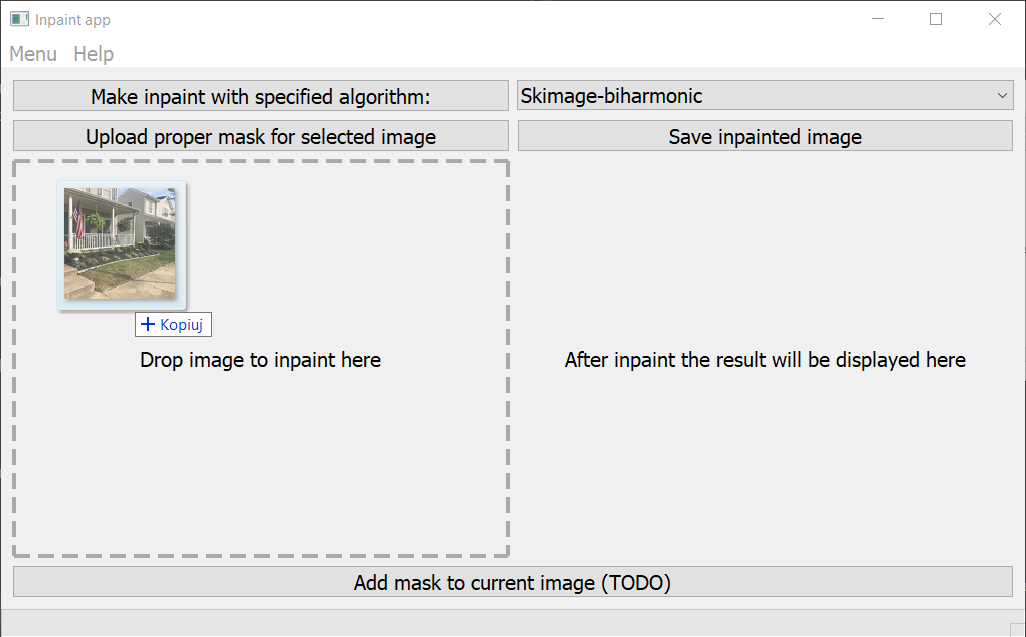
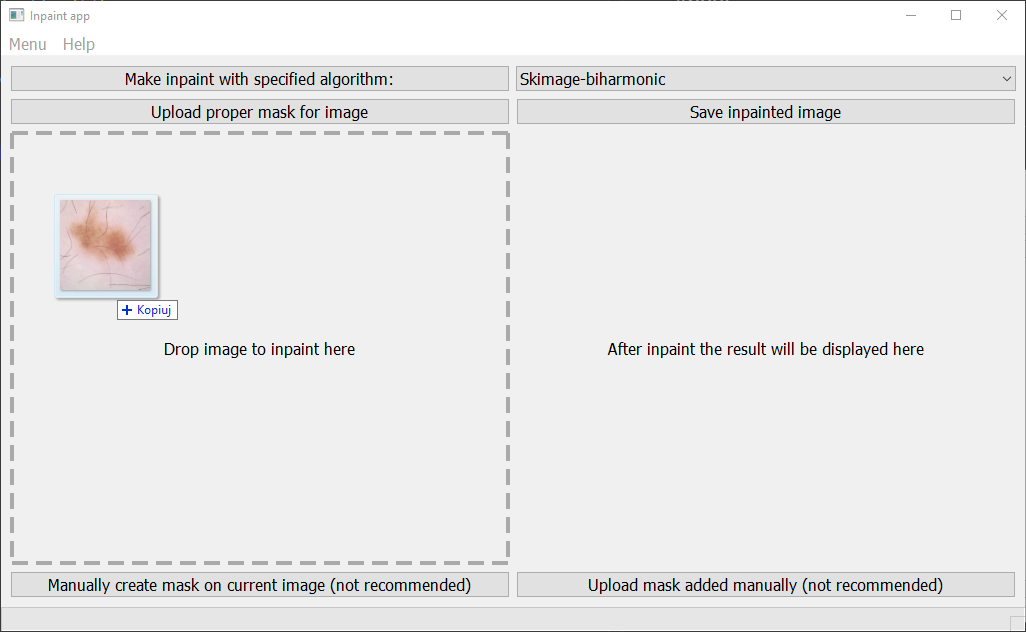
first public version of app

diff --git a/app/ui.py b/app/ui.py
@@ -18,9 +18,9 @@ from threading import Thread
 
 COMBO_MAP = {
     'Skimage-biharmonic': 5,
+    'OpenCV-Shiftmap': 4,
     'OpenCV-NS': 0,
     'OpenCV-TELEA': 1,
-    'OpenCV-Shiftmap': 4,
     'OpenCV-FSR fast': 2,
     'OpenCV-FSR best': 3,
 }
@@ -63,8 +63,11 @@ class Canvas(QLabel):
         painter.drawLine(self.last_x, self.last_y, e.x(), e.y())
         painter.end()
         self.update()
-        self.mask_array[self.last_y, self.last_x] = 255
-        self.mask_array[e.y(), e.x()] = 255
+        try:
+            self.mask_array[self.last_y, self.last_x] = 255
+            self.mask_array[e.y(), e.x()] = 255
+        except IndexError:
+            pass
 
         # Update the origin for next time.
         self.last_x = e.x()
@@ -94,7 +97,7 @@ class MainWindow(QMainWindow):
         self.image_after.setAlignment(Qt.AlignCenter)
         self.btn_inpaint = QPushButton("Make inpaint with specified algorithm:")
         self.btn_inpaint.clicked.connect(self.inpaint_click)
-        self.btn_mask = QPushButton("Upload proper mask for selected image")
+        self.btn_mask = QPushButton("Upload proper mask for image")
         self.btn_mask.clicked.connect(self.mask_click)
         self.btn_save = QPushButton("Save inpainted image")
         self.btn_save.clicked.connect(self.save_click)
@@ -162,6 +165,10 @@ class MainWindow(QMainWindow):
                 return
             self.path_original = file_path
             self.set_image(file_path)
+            if self.canvas:
+                self.canvas.close()
+                self.canvas = None
+                self.img_mask = None
             event.accept()
         else:
             event.ignore()
@@ -197,29 +204,27 @@ class MainWindow(QMainWindow):
     def inpaint_operation(self):
         inpaint_flag = COMBO_MAP[self.combobox_inpaint.currentText()]
         try:
-            self.img_inpainted, error = inpaint_algorithms(
+            self.img_inpainted = inpaint_algorithms(
                 img_path=self.path_original,
                 mask_path=self.path_mask if self.path_mask else None,
                 img_mask=self.img_mask,
                 flag=inpaint_flag,
             )
-            self.movie_stop()
-            if error:
-                self.display_status_bar_message(f"Unhandled error while inpainting: {error}")
-                self.image_after.hide()
-            else:
-                image_after = QImage(
-                    self.img_inpainted,
-                    self.img_inpainted.shape[1],
-                    self.img_inpainted.shape[0],
-                    self.img_inpainted.shape[1] * 3,
-                    QImage.Format_RGB888
-                )
-                pixmap_img_after = QPixmap(image_after)
-                pixmap_img_after = pixmap_img_after.scaled(512, 512, Qt.KeepAspectRatio, Qt.FastTransformation)
-                self.image_after.setPixmap(pixmap_img_after)
         except Exception as e:
+            self.image_after.hide()
             self.display_status_bar_message(f"Error while inpainting: {e}")
+        finally:
+            self.movie_stop()
+            image_after = QImage(
+                self.img_inpainted,
+                self.img_inpainted.shape[1],
+                self.img_inpainted.shape[0],
+                self.img_inpainted.shape[1] * 3,
+                QImage.Format_RGB888
+            )
+            pixmap_img_after = QPixmap(image_after)
+            pixmap_img_after = pixmap_img_after.scaled(512, 512, Qt.KeepAspectRatio, Qt.FastTransformation)
+            self.image_after.setPixmap(pixmap_img_after)
 
     def mask_click(self):
         mask_path, _ = QFileDialog.getOpenFileName(self, "Select mask for image", self.path_original, "All Files (*)")
@@ -228,6 +233,7 @@ class MainWindow(QMainWindow):
                 self.display_status_bar_message("File must have graphic extension like .png")
                 return
             self.path_mask = mask_path
+            self.btn_mask.setText("Replace loaded mask")
 
     def save_click(self):
         if self.img_inpainted is None:
@@ -247,14 +253,15 @@ class MainWindow(QMainWindow):
                 self.display_status_bar_message(f"Error while saving: {e}")
 
     def add_mask_click(self):
-        if self.canvas is None and not self.path_original:
+        if not self.path_original:
             self.display_status_bar_message("First you need to add image to inpaint")
             return
-        elif self.canvas is None:
-            self.canvas = Canvas(self.drag_image.width(), self.drag_image.height())
-            self.layout.addWidget(self.canvas, 2, 0)
-        else:
-            self.display_status_bar_message("Already added canvas try holding LPM on image to inpaint")
+        elif self.canvas:
+            self.canvas.close()
+            self.canvas = None
+        self.canvas = Canvas(self.drag_image.width(), self.drag_image.height())
+        self.layout.addWidget(self.canvas, 2, 0, alignment=Qt.AlignCenter)
+        self.combobox_inpaint.setCurrentIndex(1)
 
     def upload_mask_click(self):
         if self.canvas is None:
@@ -263,4 +270,5 @@ class MainWindow(QMainWindow):
         self.img_mask = self.canvas.mask_array
         if self.path_mask:
             self.path_mask = ""
+        self.btn_mask.setText("Replace loaded mask")
         self.display_status_bar_message('Uploaded created mask to memory. See results with "Make inpaint" button')

diff --git a/app/inpaint.py b/app/inpaint.py
@@ -1,20 +1,36 @@
 import numpy as np
 import cv2 as cv
-from skimage.restoration import inpaint
 import imghdr
+from skimage.restoration import inpaint
 from typing import Optional
 from numpy import ndarray
+from PIL import Image
 
 
 def inpaint_algorithms(
         img_path: str,
         mask_path: Optional[str],
         img_mask: Optional[ndarray],
-        flag: Optional[int] = cv.INPAINT_NS
+        flag: Optional[int] = cv.INPAINT_NS,
+        debug: bool = False,
 ) -> tuple:
+    """
+    Accept path to image and mask with artifact place, then conduct 
+    inpaint with algorithm passed as flag parameter.
+
+    :param str img_path: Path to image to be inpainted.
+    :param str mask_path: Optional path to mask.
+    :param str img_mask: Optional loaded mask.
+    :param int flag: Optional parameter deciding which algorithm will be used.
+    :param bool debug: Flag to indicate debugging passed images.
+    :return: Tuple including inpainted image and if happens error
+    """
     try:
         img_to_inpaint, mask = read_image_and_mask(img_path, mask_path, img_mask)
         validate_mask_and_image_same_shape(img_to_inpaint, mask)
+        if debug:
+            save_given_pic_and_mask_to_test(img_to_inpaint, mask)
+        kernel = np.ones((3, 3), np.uint8)
 
         if flag in [0, 1]:
             img_inpainted = cv.inpaint(img_to_inpaint, mask, inpaintRadius=3, flags=flag)
@@ -33,21 +49,30 @@ def inpaint_algorithms(
             img_to_inpaint = cv.cvtColor(img_to_inpaint, cv.COLOR_BGR2RGB)
             img_lab = cv.cvtColor(src=img_to_inpaint, code=cv.COLOR_RGB2Lab)
             dst_img = np.zeros_like(img_to_inpaint)
+            mask = cv.morphologyEx(mask, cv.MORPH_CLOSE, kernel, iterations=2)
             _, inverse_mask = cv.threshold(mask, 127, 255, cv.THRESH_BINARY_INV)
             cv.xphoto.inpaint(src=img_lab, mask=inverse_mask, dst=dst_img, algorithmType=cv.xphoto.INPAINT_SHIFTMAP)
             img_inpainted = cv.cvtColor(src=dst_img, code=cv.COLOR_Lab2RGB)
         else:
-            kernel = np.ones((2, 2), np.uint8)
             mask = cv.dilate(mask, kernel, iterations=1)
             img_to_inpaint = cv.cvtColor(img_to_inpaint, cv.COLOR_BGR2RGB)
             img_inpainted = inpaint.inpaint_biharmonic(img_to_inpaint, mask, channel_axis=-1)
             img_inpainted = (img_inpainted * 255).astype('uint8')
     except Exception as error:
-        return [], error
-    return img_inpainted, None
+        raise error
+    return img_inpainted
 
 
 def read_image_and_mask(img_path: str, mask_path: Optional[str], img_mask: Optional[ndarray]) -> tuple:
+    """
+    Handle reading image and mask as ndarray. 
+    If mask is passed raises NotImplementedError.
+
+    :param str img_path: Path to image to be inpainted.
+    :param str mask_path: Optional path to mask.
+    :param str img_mask: Optional loaded mask.
+    :return: Tuple with image to be inpainted and mask
+    """
     img_to_inpaint = cv.imread(f"{img_path}")
     if mask_path:
         mask = cv.imread(f"{mask_path}", cv.IMREAD_GRAYSCALE)
@@ -56,19 +81,45 @@ def read_image_and_mask(img_path: str, mask_path: Optional[str], img_mask: Optio
                          interpolation=cv.INTER_AREA)
         _, mask = cv.threshold(mask, 127, 255, cv.THRESH_BINARY)
         kernel = np.ones((4, 4), np.uint8)
-        mask = cv.dilate(mask, kernel, iterations=3)
+        mask = cv.dilate(mask, kernel)
+        mask = cv.morphologyEx(mask, cv.MORPH_CLOSE, kernel)
     else:
         raise NotImplementedError("Couldn't handle lack of mask")
     return img_to_inpaint, mask
 
 
-def file_has_graphic_extension(filename: str) -> bool:
-    if imghdr.what(filename) in ["jpg", "jpeg", "png", "gif", "bmp"]:
+def file_has_graphic_extension(path: str) -> bool:
+    """
+    Check if file has graphic extension.
+
+    :param str path: Path to file to be checked.
+    :return: bool indicating if file has proper extension.
+    """
+    if imghdr.what(path) in ["jpg", "jpeg", "png", "gif", "bmp"]:
         return True
     return False
 
 
 def validate_mask_and_image_same_shape(img: ndarray, mask: ndarray) -> None:
+    """
+    Validate shape of passed mask and image.
+
+    :param str img: Image to be validated.
+    :param str mask: Mask to be validated.
+    :return: 
+    """
     if img.shape[0] == mask.shape[0] and img.shape[1] == mask.shape[1]:
         return
     raise AssertionError(f"image and mask are different shapes {img.shape[0], img.shape[1]} != {mask.shape}")
+
+
+def save_given_pic_and_mask_to_test(img: ndarray, mask: ndarray) -> None:
+    """
+    Inspect mask and image given as parameters. Saves images to tests directory
+
+    :param str img: Image to be saved.
+    :param str mask: Mask to be saved.
+    :return: 
+    """
+    cv.imwrite(r'C:\Users\koliz\Desktop\Programowanie\inpaint\tests\1img.jpg', cv.cvtColor(img, cv.COLOR_BGR2RGB))
+    cv.imwrite(r'C:\Users\koliz\Desktop\Programowanie\inpaint\tests\2mask.jpg', mask)

diff --git a/tests/test_inpaint.py b/tests/test_inpaint.py
@@ -1,0 +1,17 @@
+from numpy import ndarray
+from app.inpaint import validate_mask_and_image_same_shape, file_has_graphic_extension
+import pytest
+
+
+def test_inpaint_shape_validation():
+    array5x5 = ndarray((5,5))
+    array3x5 = ndarray((3,5))
+    array3x3 = ndarray((3,3))
+    with pytest.raises(AssertionError):
+        validate_mask_and_image_same_shape(array3x5, array3x3)
+        validate_mask_and_image_same_shape(array3x5, array3x3)
+    assert validate_mask_and_image_same_shape(array5x5, array5x5) is None
+    assert validate_mask_and_image_same_shape(array3x5, array3x5) is None
+    assert validate_mask_and_image_same_shape(array3x3, array3x3) is None
+
+

diff --git a/README.md b/README.md
@@ -1,29 +1,40 @@
-# Inpaint app 
+# Inpaint app
+
 Author: Radosław Szpot
 
-### About
-The goal of the app is to make inpaint and see result in one place. 
+## About
+
+The purpose of the app is to make inpaint and see result in one place.
 User can choose the best algorithm for his problem and save inpainted image.
 
+## Usage Example
 
-### Usage Example
-To run the app you need to ...   
+To run the app you need to open cmd in path and run commend `make start`.
 
-After running correctly app window should look like this:  
+After running app correctly window should look like this:  
 ![image](./assets/app_view.png)
 
-Now user should add image which needs inpainting by dropping graphic file to window.  
+Now you can add image which needs inpainting by dropping graphic file to dashed line rectangle in window.  
 ![image](./assets/app_image_adding_view.png)
 
-### Motivation:
-Algorithms for inpaint were used from part of my Engineer Degree work. 
-I thought that they work really well and could be easily implemented with some GUI 
-to help creating fast photos corrections.
+Next step is to upload mask (or create it manually on image) and select algorithm from combo box in upper right corner. Then click "Make inpaint with specified algorithm" and voilà your inpainted image will be displayed on right. Now if you are satisfied you can save image to selected path.
+![image](./assets/app_image_after_inpaint.png)
 
-### Technology:
-* Project was realised in Python language as it is my most used language.
-* For creating GUI I used Pyqt5. ...
-* For inpaint purposes libraries OpenCV and scikit-image were used.
+Working with manually added mask isn't perfect but also works.
+![image](./assets/app_image_after_inpaint_manually.png)
 
-### Project future development
+## Motivation:
+
+As part of my engineering degree work, I utilized inpainting algorithms which proved to be highly effective. I believe that with the addition of a user-friendly GUI, these algorithms could be easily implemented for efficient photo corrections. While for me it was an opportunity to gain a better understanding of the Pyqt library and create an interesting project.
+
+The images presented in the "Usage Example" section were created based on the ISIC database by a scientific group with whom I had the pleasure of collaborating and contributing some images.
+
+## Technology:
+
+- The project was implemented in Python, which is the programming language I like the most.
+- For inpaint purposes libraries OpenCV and scikit-image were used.
+- For creating GUI Pyqt5 were used.
+
+## Project future development
+
 Possible future features are pointed in file [TODO](TODO.md)

diff --git a/TODO.md b/TODO.md
@@ -1,8 +1,20 @@
-## Possible development ideas: 
-* Cleanup code
-* Update README.md
-* Add help bar to simplify user experience
-* ~~Add feature to create mask directly on uploaded image~~
-* ~~Add extensions validation function to handle input files~~
-* Add docstrings
-* Add tests
+## Possible development ideas:
+
+- ~~Remove manual mask when uploading new image~~
+- ~~Add feature to create mask directly on uploaded image~~
+- ~~Add extensions validation function to handle input files~~
+- ~~Make manual mask scale with window~~
+- ~~Handle border error while adding manual mask~~
+- Make app more unbreakable
+
+## Code improvements:
+
+- Cleanup ui code
+- ~~Add docstrings~~
+- Add more tests
+
+## Possible user experience ideas:
+
+- ~~Update README.md~~
+- Add help bar to simplify flow
+- Button add mask should work more like "Add image" then change to "Upload mask for selected photo" after validation that image is uploaded properly
